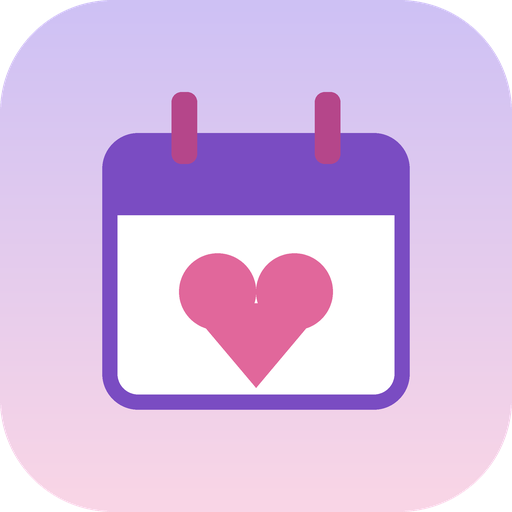
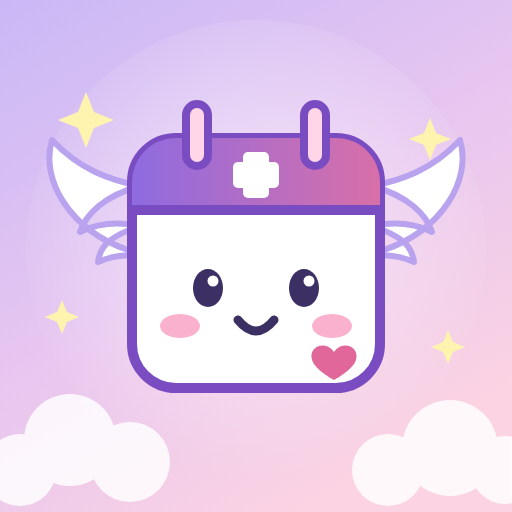
Add files via upload

diff --git a/index.html b/index.html
@@ -386,6 +386,7 @@ nav.tabbar a svg{width:24px;height:24px}
 (function(){
 'use strict';
 /* ---------- ทำงานได้ทั้งบน claude.ai และเวอร์ชัน GitHub Pages (standalone) ---------- */
[1 lines of base64/hex data omitted]
 const STANDALONE = !(window.claude && window.claude.use);
 if (STANDALONE){
   const mime = n => /\.pdf$/i.test(n) ? 'application/pdf' : /\.xlsx$/i.test(n) ? 'application/vnd.openxmlformats-officedocument.spreadsheetml.sheet' : /\.ics$/i.test(n) ? 'text/calendar' : /\.json$/i.test(n) ? 'application/json' : 'application/octet-stream';
@@ -396,8 +397,10 @@ if (STANDALONE){
     setTimeout(() => URL.revokeObjectURL(url), 5000); return {};
   }};
   window.claude = {use: async name => name === 'downloads' ? downloads : null};
+  { const fi = document.createElement('link'); fi.rel = 'icon'; fi.href = APP_ICON; document.head.appendChild(fi); }
   window.addEventListener('load', () => {
     const l = document.createElement('link'); l.rel = 'manifest'; l.href = 'manifest.json'; document.head.appendChild(l);
+    const ai = document.createElement('link'); ai.rel = 'apple-touch-icon'; ai.href = 'icons/apple-touch-icon.png'; document.head.appendChild(ai);
     const m = document.createElement('meta'); m.name = 'theme-color'; m.content = '#7A4CC2'; document.head.appendChild(m);
     if ('serviceWorker' in navigator && location.protocol === 'https:') navigator.serviceWorker.register('sw.js').catch(() => {});
   });
@@ -846,7 +849,7 @@ function viewMyDay(){
       <input data-act="hour" data-h="${hh}" value="${esc(hrsMap[hh] || '')}" placeholder="ทำอะไร" aria-label="รายละเอียดเวลา ${hh}:00"></div></div>`;
   }
   return `
-  <header class="top"><div><div class="sub">${esc(thDate(t))}</div><h1>${greet}</h1></div></header>
+  <header class="top" style="justify-content:flex-start"><img src="${APP_ICON}" alt="" width="48" height="48" style="border-radius:50%;flex:none;box-shadow:0 2px 8px rgba(122,76,194,.25)"><div><div class="sub">${esc(thDate(t))}</div><h1>${greet}</h1></div></header>
   ${rem.length ? `<div class="banner appt" role="note">${ic('appt')}<div><strong>เตือนวันนี้ ${rem.length} รายการ</strong><br>${rem.map(a => `${esc(a.title)} · ${esc(shortDay(a.date))}${a.time ? ' ' + esc(a.time) : ''}`).join('<br>')}</div></div>` : ''}
   ${gToday.filter(e => !e.time).length ? `<div class="banner info" role="note">${ic('cal')}<div><strong>วันสำคัญวันนี้</strong><br>${gToday.filter(e => !e.time).map(e => esc(e.title)).join('<br>')}</div></div>` : ''}
   ${late ? `<div class="banner life" role="note">${ic('day')}<div>เลย ${esc(S.settings.stopAfter)} แล้ว ตามที่ตั้งไว้คือหยุดรับงานเพิ่ม</div></div>` : ''}

diff --git a/README.md b/README.md
@@ -41,7 +41,7 @@
 
 1. **สมัครบัญชี** ที่ [github.com](https://github.com) (ฟรี)
 2. **สร้าง repository**: กด **+** มุมขวาบน › **New repository**
-   - Repository name: `secretary-app` (หรือชื่ออื่นเป็นภาษาอังกฤษ)
+   - Repository name: `secretary` (ชื่อนี้จะเป็นท้ายลิงก์เว็บไซต์)
    - เลือก **Public** (GitHub Pages แบบฟรีต้องเป็น Public)
    - กด **Create repository**
 3. **อัปโหลดไฟล์**: ในหน้า repository กด **uploading an existing file** (หรือ **Add file › Upload files**)
@@ -51,12 +51,15 @@
    - Source: **Deploy from a branch**
    - Branch: **main** และโฟลเดอร์ **/ (root)** › กด **Save**
 5. **รอ 1–3 นาที** แล้วรีเฟรชหน้า Settings › Pages จะขึ้นลิงก์แบบนี้
-   `https://ชื่อผู้ใช้.github.io/secretary-app/`
+   `https://ชื่อผู้ใช้.github.io/secretary/`
 6. เปิดลิงก์นั้น ใช้งานได้ทันที
 
 > ⚠ **ห้ามอัปไฟล์สำรอง (`secretary-backup-….json`) หรือไฟล์ Excel/PDF ที่ดาวน์โหลดจากแอปขึ้น GitHub** เพราะ repository เป็น Public ทุกคนเปิดดูได้
 
 ---
+
+### เปลี่ยนชื่อลิงก์ภายหลัง
+Settings › General › **Repository name** › พิมพ์ชื่อใหม่ (เช่น `secretary`) › **Rename** แล้วรอ 1–3 นาที ลิงก์จะเปลี่ยนเป็น `https://ชื่อผู้ใช้.github.io/ชื่อใหม่/` ข้อมูลในเครื่องยังอยู่ แต่ต้องลบไอคอนแอปเดิมแล้วติดตั้งใหม่จากลิงก์ใหม่
 
 ## ติดตั้งเป็นแอปบนมือถือ
 
